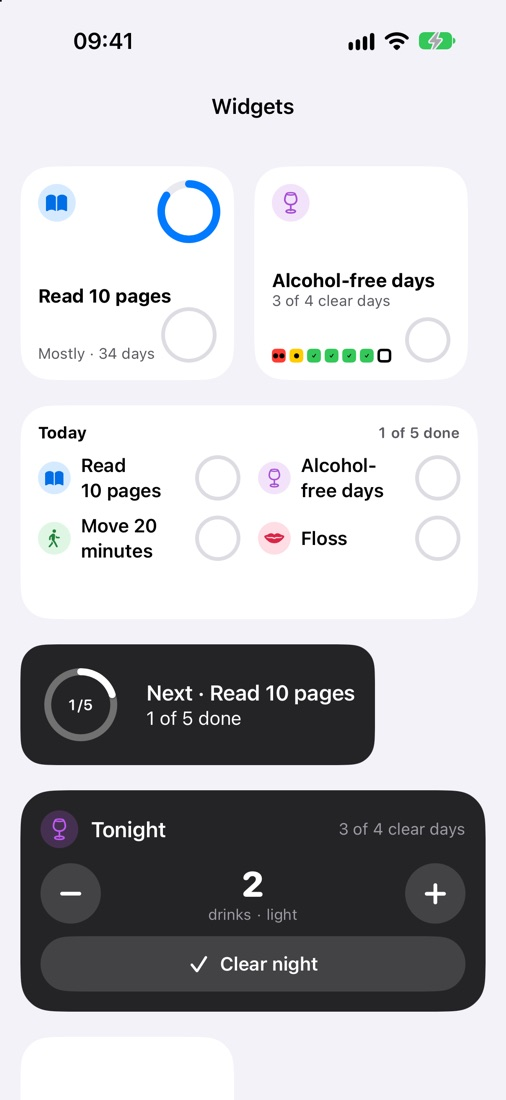
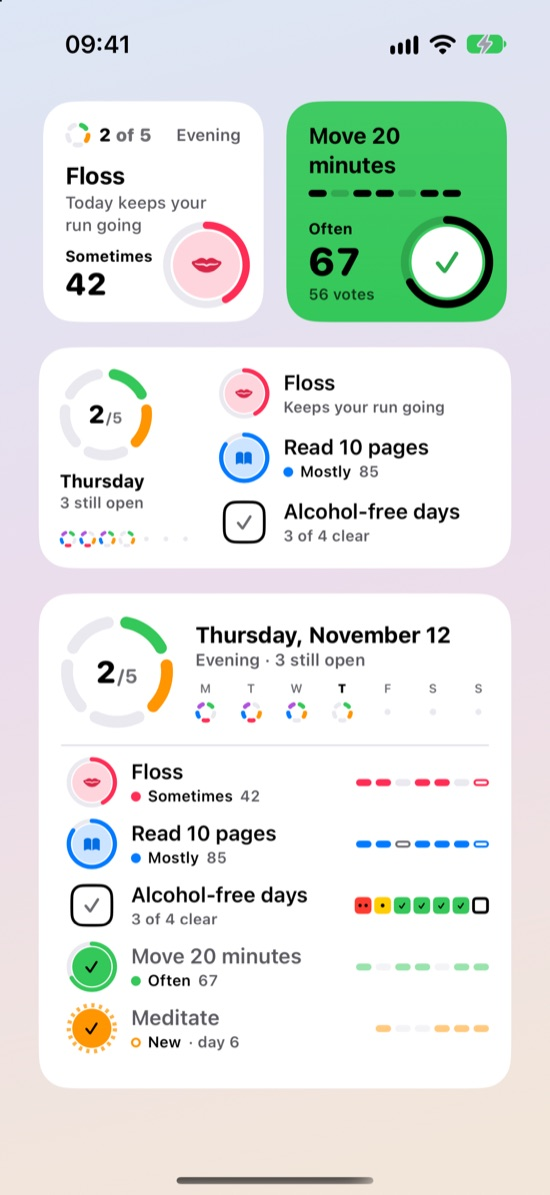
Widgets showcase: interactive Home Screen and Lock Screen, every widget, tinted, clear, StandBy, Control Center
Widget pictures are rendered from the app's real widget views (light and dark).
Tap a ring to see it check in (CSS only). FAQ, support and llms.txt mention the
widgets; the tour shows the redesigned widgets.

diff --git a/index.html b/index.html
@@ -23,14 +23,14 @@
 <link rel="apple-touch-icon" href="/assets/img/apple-touch-icon.png">
 <link rel="stylesheet" href="/assets/site.css">
 <script type="application/ld+json">{"@context": "https://schema.org", "@type": "MobileApplication", "name": "Mostly Daily", "operatingSystem": "iOS 26", "applicationCategory": "HealthApplication", "url": "https://mostlydaily.com", "description": "A forgiving habit tracker for iPhone. Levels instead of fragile streaks, rest days that count as rest, and Limit habits with a colour calendar. No account, no tracking.", "author": {"@type": "Person", "name": "Uladzimir Kazakevich"}, "offers": {"@type": "Offer", "price": "0", "priceCurrency": "USD"}}</script>
-<script type="application/ld+json">{"@context": "https://schema.org", "@type": "FAQPage", "mainEntity": [{"@type": "Question", "name": "What happens when I miss a day?", "acceptedAnswer": {"@type": "Answer", "text": "Nothing is reset. Your level dips a little and comes back just as fast when you check in again. Your run of \"never missed twice\" only ends after two misses in a row."}}, {"@type": "Question", "name": "What is a Limit habit?", "acceptedAnswer": {"@type": "Answer", "text": "A habit you want less of, like drinks, sugar or screen time. You log the amount each evening and get a colour calendar of clear, light and heavier days, with a goal of clear days per week."}}, {"@type": "Question", "name": "Do I need an account?", "acceptedAnswer": {"@type": "Answer", "text": "No. There is no account and no sign-in. Your habits stay on your devices and sync through your own private iCloud."}}, {"@type": "Question", "name": "What does Free include?", "acceptedAnswer": {"@type": "Answer", "text": "3 habits (one can be a Limit habit), levels, rest days, reminders, widgets, Apple Health and iCloud sync, with no time limit."}}, {"@type": "Question", "name": "What does Premium add?", "acceptedAnswer": {"@type": "Answer", "text": "Unlimited habits with Focus mode, the evening check-in on the Lock Screen, every past reflection and recap, more widgets and app icons, and several reminders per habit."}}, {"@type": "Question", "name": "What happens if Premium ends?", "acceptedAnswer": {"@type": "Answer", "text": "Nothing is deleted. Habits beyond the Free plan are paused with all their history, and you can export everything at any time."}}, {"@type": "Question", "name": "Is my data private?", "acceptedAnswer": {"@type": "Answer", "text": "Yes. Mostly Daily has no server, no analytics and no tracking. Drinks you link to Apple Health stay in Apple Health and are never stored in iCloud."}}, {"@type": "Question", "name": "Is it a treatment or recovery program?", "acceptedAnswer": {"@type": "Answer", "text": "No. Mostly Daily is for self-tracking and gives no medical advice. If you're worried about your health or drinking, please talk to a professional."}}]}</script>
+<script type="application/ld+json">{"@context": "https://schema.org", "@type": "FAQPage", "mainEntity": [{"@type": "Question", "name": "What happens when I miss a day?", "acceptedAnswer": {"@type": "Answer", "text": "Nothing is reset. Your level dips a little and comes back just as fast when you check in again. Your run of \"never missed twice\" only ends after two misses in a row."}}, {"@type": "Question", "name": "What is a Limit habit?", "acceptedAnswer": {"@type": "Answer", "text": "A habit you want less of, like drinks, sugar or screen time. You log the amount each evening and get a colour calendar of clear, light and heavier days, with a goal of clear days per week."}}, {"@type": "Question", "name": "Can I check in from a widget?", "acceptedAnswer": {"@type": "Answer", "text": "Yes. Tap the ring on a Home Screen or Lock Screen widget and the habit is checked in right away, without opening the app. There are also Control Center controls, StandBy, and Siri and Shortcuts."}}, {"@type": "Question", "name": "Do I need an account?", "acceptedAnswer": {"@type": "Answer", "text": "No. There is no account and no sign-in. Your habits stay on your devices and sync through your own private iCloud."}}, {"@type": "Question", "name": "What does Free include?", "acceptedAnswer": {"@type": "Answer", "text": "3 habits (one can be a Limit habit), levels, rest days, reminders, widgets, Apple Health and iCloud sync, with no time limit."}}, {"@type": "Question", "name": "What does Premium add?", "acceptedAnswer": {"@type": "Answer", "text": "Unlimited habits with Focus mode, the evening check-in on the Lock Screen, every past reflection and recap, more widgets and app icons, and several reminders per habit."}}, {"@type": "Question", "name": "What happens if Premium ends?", "acceptedAnswer": {"@type": "Answer", "text": "Nothing is deleted. Habits beyond the Free plan are paused with all their history, and you can export everything at any time."}}, {"@type": "Question", "name": "Is my data private?", "acceptedAnswer": {"@type": "Answer", "text": "Yes. Mostly Daily has no server, no analytics and no tracking. Drinks you link to Apple Health stay in Apple Health and are never stored in iCloud."}}, {"@type": "Question", "name": "Is it a treatment or recovery program?", "acceptedAnswer": {"@type": "Answer", "text": "No. Mostly Daily is for self-tracking and gives no medical advice. If you're worried about your health or drinking, please talk to a professional."}}]}</script>
 </head>
 <body>
 <a class="skip" href="#main">Skip to content</a>
 <header class="site-header"><div class="wrap">
   <a class="brand" href="/"><img src="/assets/img/app-icon.png" alt="" width="30" height="30">Mostly Daily</a>
   <nav aria-label="Main">
-    <a href="/#how">How it works</a><a href="/#features">Features</a><a href="/#pricing">Pricing</a><a href="/guides/">Guides</a><a href="/support.html">Support</a>
+    <a href="/#how">How it works</a><a href="/#widgets">Widgets</a><a href="/#features">Features</a><a href="/#pricing">Pricing</a><a href="/guides/">Guides</a><a href="/support.html">Support</a>
     <a class="button" href="/#get">Get the app</a>
   </nav>
 </div></header>
@@ -44,7 +44,7 @@
       <a class="store-badge" href="/#get" aria-label="Coming soon to the App Store">
   <svg width="22" height="26" viewBox="0 0 17 20" aria-hidden="true" fill="currentColor"><path d="M14.1 10.6c0-2.6 2.1-3.8 2.2-3.9-1.2-1.8-3.1-2-3.7-2-1.6-.2-3.1.9-3.9.9-.8 0-2-.9-3.4-.9C3.6 4.8 2 5.8 1.1 7.4c-1.8 3.2-.5 7.9 1.3 10.5.9 1.3 1.9 2.7 3.2 2.6 1.3 0 1.8-.8 3.3-.8 1.6 0 2 .8 3.4.8 1.4 0 2.3-1.3 3.1-2.6 1-1.5 1.4-2.9 1.4-3-.1 0-2.7-1-2.7-4.3zM11.6 3c.7-.9 1.2-2 1.1-3.2-1 0-2.3.7-3 1.6-.7.8-1.3 2-1.1 3.1 1.1.1 2.3-.6 3-1.5z"/></svg>
   <span><small>Coming soon to the</small>App Store</span></a>
-      <p class="facts">Free to start · No account · No tracking · iPhone, iOS 26</p>
+      <p class="facts">Free to start · Interactive widgets · No account · No tracking · iPhone, iOS 26</p>
     </div>
     <div class="phones">
       <img src="/assets/img/today.jpg" alt="Today: habits for the evening with a day ring and this week" width="550" height="1196">
@@ -60,6 +60,47 @@
     <div class="card"><div class="step-number">1</div><h3>Start with who you want to become</h3><p class="muted">A reader, someone who moves every day, someone who drinks mindfully. Pick a habit that votes for it.</p></div>
     <div class="card"><div class="step-number">2</div><h3>Write when and where</h3><p class="muted">"I will read 10 pages after dinner, on the sofa." Add a two-minute version for busy days: it counts fully.</p></div>
     <div class="card"><div class="step-number">3</div><h3>Check in with one tap</h3><p class="muted">From the app, a widget, the Lock Screen, Siri, or let Apple Health check it in for you.</p></div>
+  </div>
+</div></section>
+
+<section id="widgets"><div class="wrap">
+  <h2>Check in without opening the app</h2>
+  <p class="sub">Most check-ins happen right on your Home Screen. Tap the ring and it's done: no app to open, no spinner. On the Lock Screen, in StandBy and from Control Center too.</p>
+  <div class="showcase">
+    <div class="homescreen">
+      <div class="hs-grid">
+        <picture class="w-small"><source srcset="/assets/img/widgets/next-up-dark.png" media="(prefers-color-scheme: dark)"><img src="/assets/img/widgets/next-up-light.png" alt="Next up widget: Floss is next this evening, level Sometimes 42, with a ring button" width="316" height="316"></picture>
+        <label class="tap w-small"><input type="checkbox" aria-label="Demo: check in Read 10 pages"><picture class="before"><source srcset="/assets/img/widgets/habit-read-dark.png" media="(prefers-color-scheme: dark)"><img src="/assets/img/widgets/habit-read-light.png" alt="Habit widget: Read 10 pages, Mostly 85, not done yet" width="316" height="316" loading="lazy"></picture><picture class="after"><source srcset="/assets/img/widgets/habit-read-done-dark.png" media="(prefers-color-scheme: dark)"><img src="/assets/img/widgets/habit-read-done-light.png" alt="Habit widget after the tap: done, the widget turns blue" width="316" height="316" loading="lazy"></picture></label>
+        <label class="tap w-wide"><input type="checkbox" aria-label="Demo: check in Floss on the Today widget"><picture class="before"><source srcset="/assets/img/widgets/today-dark.png" media="(prefers-color-scheme: dark)"><img src="/assets/img/widgets/today-light.png" alt="Today widget: 2 of 5 done, Floss, Read 10 pages and Alcohol-free days open" width="676" height="316" loading="lazy"></picture><picture class="after"><source srcset="/assets/img/widgets/today-after-dark.png" media="(prefers-color-scheme: dark)"><img src="/assets/img/widgets/today-after-light.png" alt="Today widget after the tap: 3 of 5, Floss is done" width="676" height="316" loading="lazy"></picture></label>
+        <picture class="w-wide"><source srcset="/assets/img/widgets/today-week-dark.png" media="(prefers-color-scheme: dark)"><img src="/assets/img/widgets/today-week-light.png" alt="Today and week widget: the day ring, this week and all five habits with their last 7 days" width="676" height="708" loading="lazy"></picture>
+      </div>
+      <p class="try">Try it: tap a ring.</p>
+    </div>
+    <div class="lockscreen" aria-label="Lock Screen with Mostly Daily widgets">
+      <img class="lock-inline" src="/assets/img/widgets/lock-inline-dark.png" alt="Inline: 2 of 5 done today" width="200" height="16">
+      <div class="lock-time" aria-hidden="true">9:41</div>
+      <div class="lock-row">
+        <img src="/assets/img/widgets/lock-ring-dark.png" alt="Circular widget: today's ring, 2 of 5" width="48" height="48">
+        <img src="/assets/img/widgets/lock-next-up-dark.png" alt="Rectangular widget: Floss is next" width="113" height="48">
+        <label class="tap lock-tap"><input type="checkbox" aria-label="Demo: check in Read 10 pages from the Lock Screen"><img class="before" src="/assets/img/widgets/lock-habit-dark.png" alt="Circular habit widget: Read 10 pages" width="48" height="48" loading="lazy"><img class="after" src="/assets/img/widgets/lock-habit-done-dark.png" alt="Circular habit widget: done" width="48" height="48" loading="lazy"></label>
+      </div>
+      <p class="lock-note">Lock Screen: today's ring, what's next, and one habit to tap.</p>
+    </div>
+  </div>
+
+  <div class="wgrid">
+    <div class="wcard"><div class="art small"><picture><source srcset="/assets/img/widgets/next-up-dark.png" media="(prefers-color-scheme: dark)"><img src="/assets/img/widgets/next-up-light.png" alt="Next up widget" width="316" height="316" loading="lazy"></picture></div><h3>Next up <span class="tag">Small · Free</span></h3><p class="muted">The next open habit for this part of the day. Check it in and the next one moves up.</p></div>
+    <div class="wcard"><div class="art small"><picture><source srcset="/assets/img/widgets/habit-read-done-dark.png" media="(prefers-color-scheme: dark)"><img src="/assets/img/widgets/habit-read-done-light.png" alt="Habit widget, done" width="316" height="316" loading="lazy"></picture></div><h3>Habit <span class="tag">Small · Free</span></h3><p class="muted">One habit in sight, with its level and this week. When it's done, the whole widget turns its colour.</p></div>
+    <div class="wcard"><div class="art"><picture><source srcset="/assets/img/widgets/today-buttons-dark.png" media="(prefers-color-scheme: dark)"><img src="/assets/img/widgets/today-buttons-light.png" alt="Today widget as buttons" width="676" height="316" loading="lazy"></picture></div><h3>Today <span class="tag">Medium · Free</span></h3><p class="muted">The day ring, this week and your open habits. Show them as a list, or as a row of buttons for up to six habits.</p></div>
+    <div class="wcard"><div class="art"><picture><source srcset="/assets/img/widgets/today-week-dark.png" media="(prefers-color-scheme: dark)"><img src="/assets/img/widgets/today-week-light.png" alt="Today and week widget" width="676" height="708" loading="lazy"></picture></div><h3>Today and week <span class="tag premium">Large · Premium</span></h3><p class="muted">Every habit with its last seven days, and a ring button for each one still open.</p></div>
+    <div class="wcard"><div class="art"><picture><source srcset="/assets/img/widgets/calendar-limit-dark.png" media="(prefers-color-scheme: dark)"><img src="/assets/img/widgets/calendar-limit-light.png" alt="Month calendar widget for a Limit habit" width="676" height="708" loading="lazy"></picture></div><h3>Month calendar <span class="tag premium">Large · Premium</span></h3><p class="muted">The month at a glance: done days for the habits you build, clear, light and heavier days for the ones you want less of.</p></div>
+    <div class="wcard"><div class="art"><picture><source srcset="/assets/img/widgets/stars-dark.png" media="(prefers-color-scheme: dark)"><img src="/assets/img/widgets/stars-light.png" alt="Who you're becoming widget as stars" width="676" height="316" loading="lazy"></picture></div><h3>Who you're becoming <span class="tag premium">Medium · Premium</span></h3><p class="muted">Your votes as a mosaic or as stars that join into a constellation every week.</p></div>
+  </div>
+
+  <div class="modes">
+    <figure><div class="mode-art tinted"><img src="/assets/img/widgets/tinted-today-dark.png" alt="Today widget in a tinted Home Screen" width="676" height="316" loading="lazy"></div><figcaption><b>Tinted and clear</b><span>Looks right whichever Home Screen style you choose.</span></figcaption></figure>
+    <figure><div class="mode-art standby"><img src="/assets/img/widgets/standby-next-up-dark.png" alt="StandBy: Next up" width="316" height="316" loading="lazy"><img src="/assets/img/widgets/standby-mosaic-dark.png" alt="StandBy: mosaic" width="316" height="316" loading="lazy"></div><figcaption><b>StandBy</b><span>Big and calm on your nightstand, and red at night.</span></figcaption></figure>
+    <figure><div class="mode-art cc"><span class="cc-btn on" aria-hidden="true"><svg viewBox="0 0 24 24" width="26" height="26" fill="none" stroke="currentColor" stroke-width="2.4" stroke-linecap="round" stroke-linejoin="round"><circle cx="12" cy="12" r="9.5"/><path d="M7.8 12.4l2.8 2.8 5.6-6"/></svg></span><span class="cc-btn" aria-hidden="true"><svg viewBox="0 0 24 24" width="26" height="26" fill="none" stroke="currentColor" stroke-width="2.2" stroke-linecap="round" stroke-linejoin="round"><path d="M7 3h10l-.6 6.2a4.4 4.4 0 0 1-8.8 0z"/><path d="M12 13.6V20M8.5 20.5h7"/></svg></span><span class="cc-btn" aria-hidden="true"><svg viewBox="0 0 24 24" width="26" height="26" fill="none" stroke="currentColor" stroke-width="2.2" stroke-linecap="round" stroke-linejoin="round"><path d="M20 14.5A8.5 8.5 0 1 1 9.5 4a6.8 6.8 0 0 0 10.5 10.5z"/><path d="M17 3.5v3M15.5 5h3"/></svg></span></div><figcaption><b>Control Center and Siri</b><span>Check in a habit, log a clear day or close the day with one press. Or just ask Siri.</span></figcaption></figure>
   </div>
 </div></section>
 
@@ -120,7 +161,7 @@
 
 <section id="faq"><div class="narrow">
   <h2>Questions</h2>
-  <details><summary>What happens when I miss a day?</summary><p>Nothing is reset. Your level dips a little and comes back just as fast when you check in again. Your run of &quot;never missed twice&quot; only ends after two misses in a row.</p></details><details><summary>What is a Limit habit?</summary><p>A habit you want less of, like drinks, sugar or screen time. You log the amount each evening and get a colour calendar of clear, light and heavier days, with a goal of clear days per week.</p></details><details><summary>Do I need an account?</summary><p>No. There is no account and no sign-in. Your habits stay on your devices and sync through your own private iCloud.</p></details><details><summary>What does Free include?</summary><p>3 habits (one can be a Limit habit), levels, rest days, reminders, widgets, Apple Health and iCloud sync, with no time limit.</p></details><details><summary>What does Premium add?</summary><p>Unlimited habits with Focus mode, the evening check-in on the Lock Screen, every past reflection and recap, more widgets and app icons, and several reminders per habit.</p></details><details><summary>What happens if Premium ends?</summary><p>Nothing is deleted. Habits beyond the Free plan are paused with all their history, and you can export everything at any time.</p></details><details><summary>Is my data private?</summary><p>Yes. Mostly Daily has no server, no analytics and no tracking. Drinks you link to Apple Health stay in Apple Health and are never stored in iCloud.</p></details><details><summary>Is it a treatment or recovery program?</summary><p>No. Mostly Daily is for self-tracking and gives no medical advice. If you&#x27;re worried about your health or drinking, please talk to a professional.</p></details>
+  <details><summary>What happens when I miss a day?</summary><p>Nothing is reset. Your level dips a little and comes back just as fast when you check in again. Your run of &quot;never missed twice&quot; only ends after two misses in a row.</p></details><details><summary>What is a Limit habit?</summary><p>A habit you want less of, like drinks, sugar or screen time. You log the amount each evening and get a colour calendar of clear, light and heavier days, with a goal of clear days per week.</p></details><details><summary>Can I check in from a widget?</summary><p>Yes. Tap the ring on a Home Screen or Lock Screen widget and the habit is checked in right away, without opening the app. There are also Control Center controls, StandBy, and Siri and Shortcuts.</p></details><details><summary>Do I need an account?</summary><p>No. There is no account and no sign-in. Your habits stay on your devices and sync through your own private iCloud.</p></details><details><summary>What does Free include?</summary><p>3 habits (one can be a Limit habit), levels, rest days, reminders, widgets, Apple Health and iCloud sync, with no time limit.</p></details><details><summary>What does Premium add?</summary><p>Unlimited habits with Focus mode, the evening check-in on the Lock Screen, every past reflection and recap, more widgets and app icons, and several reminders per habit.</p></details><details><summary>What happens if Premium ends?</summary><p>Nothing is deleted. Habits beyond the Free plan are paused with all their history, and you can export everything at any time.</p></details><details><summary>Is my data private?</summary><p>Yes. Mostly Daily has no server, no analytics and no tracking. Drinks you link to Apple Health stay in Apple Health and are never stored in iCloud.</p></details><details><summary>Is it a treatment or recovery program?</summary><p>No. Mostly Daily is for self-tracking and gives no medical advice. If you&#x27;re worried about your health or drinking, please talk to a professional.</p></details>
 </div></section>
 
 <section id="get" class="closing"><div class="narrow">

diff --git a/assets/site.css b/assets/site.css
@@ -69,6 +69,69 @@ h3 { font-size: 20px; margin: 0 0 6px; }
 .tour figcaption b { display: block; }
 .tour figcaption span { color: var(--ink2); font-size: 15px; }
 
+/* Widgets */
+.showcase { display: grid; grid-template-columns: 1.15fr 1fr; gap: 24px; align-items: stretch; }
+@media (max-width: 860px) { .showcase { grid-template-columns: 1fr; } }
+.homescreen { border-radius: 36px; padding: 32px 28px 22px; background: linear-gradient(160deg, #DCE6F4, #EBDDEC 55%, #F2E6DA); }
+.hs-grid { display: grid; grid-template-columns: 1fr 1fr; gap: 22px; max-width: 400px; margin: 0 auto; }
+.hs-grid .w-wide { grid-column: 1 / -1; }
+.homescreen img, .wcard img, .modes img { filter: drop-shadow(0 6px 18px rgba(0, 0, 0, .12)); }
+.try { text-align: center; margin: 18px 0 0; font-size: 14px; font-weight: 600; color: rgba(0, 0, 0, .55); }
+.lockscreen { border-radius: 36px; padding: 56px 20px 28px; display: flex; flex-direction: column; align-items: center; color: #fff;
+  background: linear-gradient(180deg, #0E1A33, #24305A 40%, #5A3E6E 72%, #B0684F); }
+.lock-inline { width: 250px; }
+.lock-time { font: 700 clamp(80px, 11vw, 120px)/1 ui-rounded, -apple-system, "SF Pro Rounded", system-ui, sans-serif; letter-spacing: -0.02em; margin: 6px 0 22px; opacity: .95; }
+.lock-row { display: flex; gap: 12px; align-items: center; }
+.lock-row img { width: 80px; }
+.lock-row > img:nth-child(2) { width: 188px; }
+.lock-row > * { flex: none; }
+.lock-row .lock-tap { width: 80px; }
+@media (max-width: 480px) {
+  .lock-row { gap: 8px; }
+  .lock-row img, .lock-row .lock-tap { width: 62px; }
+  .lock-row > img:nth-child(2) { width: 146px; }
+}
+.lock-note { margin: auto 0 0; padding-top: 28px; font-size: 14px; color: rgba(255, 255, 255, .75); text-align: center; }
+/* CSS-only check-in demo: the checkbox swaps the widget for its "done" picture. */
+.tap { display: grid; cursor: pointer; position: relative; -webkit-tap-highlight-color: transparent; }
+.tap > picture, .tap > img { grid-area: 1 / 1; transition: opacity .25s ease, transform .25s ease; }
+.tap input { position: absolute; inset: 0; opacity: 0; margin: 0; cursor: pointer; z-index: 1; }
+.tap .after { opacity: 0; }
+.tap input:checked ~ .after { opacity: 1; }
+.tap input:checked ~ .before { opacity: 0; }
+.tap:active > picture, .tap:active > img { transform: scale(.97); }
+.tap input:focus-visible ~ .before, .tap input:focus-visible ~ .after { outline: 3px solid var(--link); outline-offset: 4px; border-radius: 24px; }
+@media (prefers-reduced-motion: reduce) { .tap > picture, .tap > img { transition: none; } .tap:active > picture, .tap:active > img { transform: none; } }
+.wgrid { display: grid; grid-template-columns: repeat(3, 1fr); gap: 16px; margin-top: 24px; }
+@media (max-width: 960px) { .wgrid { grid-template-columns: repeat(2, 1fr); } }
+@media (max-width: 600px) { .wgrid { grid-template-columns: 1fr; } }
+.wcard { background: var(--card); border-radius: 22px; padding: 16px 16px 20px; }
+.wcard .art { height: 280px; border-radius: 16px; display: flex; align-items: center; justify-content: center; padding: 18px; margin-bottom: 14px;
+  background: linear-gradient(160deg, #DCE6F4, #EBDDEC 55%, #F2E6DA); }
+.wcard .art img { max-height: 244px; width: auto; }
+.wcard .art.small img { max-height: 170px; }
+.wcard h3 { display: flex; flex-wrap: wrap; align-items: center; gap: 8px; }
+.tag { font-size: 12px; font-weight: 700; padding: 3px 9px; border-radius: 10px; background: var(--card2); color: var(--ink2); }
+.tag.premium { background: var(--accent); color: var(--on-accent); }
+.modes { display: grid; grid-template-columns: repeat(3, 1fr); gap: 16px; margin-top: 16px; }
+@media (max-width: 860px) { .modes { grid-template-columns: 1fr; } }
+.modes figure { margin: 0; background: var(--card); border-radius: 22px; padding: 16px 16px 20px; }
+.mode-art { height: 200px; border-radius: 16px; display: flex; align-items: center; justify-content: center; gap: 6px; padding: 18px; margin-bottom: 14px; }
+.mode-art img { max-height: 150px; width: auto; }
+.mode-art.tinted { background: linear-gradient(160deg, #3A2E1C, #0B0907); }
+.mode-art.standby { background: #000; }
+.mode-art.standby img { max-height: 160px; max-width: 49%; }
+.mode-art.cc { background: linear-gradient(160deg, #233A5E, #3B2A55 55%, #12343A); gap: 16px; }
+.cc-btn { width: 64px; height: 64px; border-radius: 32px; display: flex; align-items: center; justify-content: center; color: #fff; background: rgba(255, 255, 255, .18); }
+.cc-btn.on { background: #fff; color: #0A84FF; }
+.modes figcaption b { display: block; }
+.modes figcaption span { color: var(--ink2); font-size: 15px; }
+@media (prefers-color-scheme: dark) {
+  .homescreen, .wcard .art { background: linear-gradient(160deg, #16223A, #1E1830 55%, #07080C); }
+  .try { color: rgba(255, 255, 255, .6); }
+  .homescreen img, .wcard img, .modes img { filter: drop-shadow(0 6px 18px rgba(0, 0, 0, .35)); }
+}
+
 /* Pricing */
 .plan h3 { font-size: 24px; }
 .plan ul { list-style: none; padding: 0; margin: 16px 0 0; }

diff --git a/support.html b/support.html
@@ -41,7 +41,8 @@
 <h2>When does a day end?</h2>
 <p>At 3:00 by default, so a late night still counts for the day it started. Change it in Settings &gt; Day ends at.</p>
 <h2>Widgets</h2>
-<p>Touch and hold the Home Screen, tap Edit &gt; Add Widget and search for Mostly Daily. Check buttons work without opening the app; open the app now and then to keep widgets up to date.</p>
+<p>Touch and hold the Home Screen, tap Edit &gt; Add Widget and search for Mostly Daily. Tap the ring on a widget to check in: it fills right away, without opening the app. Widgets move to the new day on their own when your day ends.</p>
+<p>For the Lock Screen, touch and hold it, tap Customize and add Mostly Daily. For Control Center, open it, tap + and add Check in, Clear day or Close the day. If a widget ever looks out of date, open the app once.</p>
 <h2>Reminders</h2>
 <p>Each habit can have a reminder (Premium: several). You get at most two a day. If a habit's reminders are ignored three times in a row, they pause until you check in again.</p>
 <h2>Apple Health</h2>

diff --git a/README.md b/README.md
@@ -24,6 +24,13 @@ Screenshots in `assets/img/` come from the app's simulator with demo data (`-dem
 bar); the social preview `og-image.jpg` is drawn by `tools/web/og_image.swift` in the app repository. Update the
 screenshots when the app's screens change noticeably.
 
+Widget pictures in `assets/img/widgets/` (`<name>-light.png` / `-dark.png`, 2×) are rendered from the app's real widget
+views: in the app repo, launch the Personal build with `-demoData -skipOnboarding -today 2026-11-12 -screen
+widgetsExport`, copy `Documents/widget-export/` out of the simulator's app container
+(`xcrun simctl get_app_container <udid> com.kwull.mostlydaily.dev data`) and downscale the 3× PNGs to 2×. The Home
+Screen and Lock Screen demo on the home page swaps a widget for its `-done`/`-after` picture with a checkbox (CSS
+only, no script).
+
 When the app is live: replace the "Coming soon" buttons with Apple's official "Download on the App Store" badge and
 link, add `<meta name="apple-itunes-app" content="app-id=…">`, and add the App Store URL to the JSON-LD and
 `llms.txt`.
